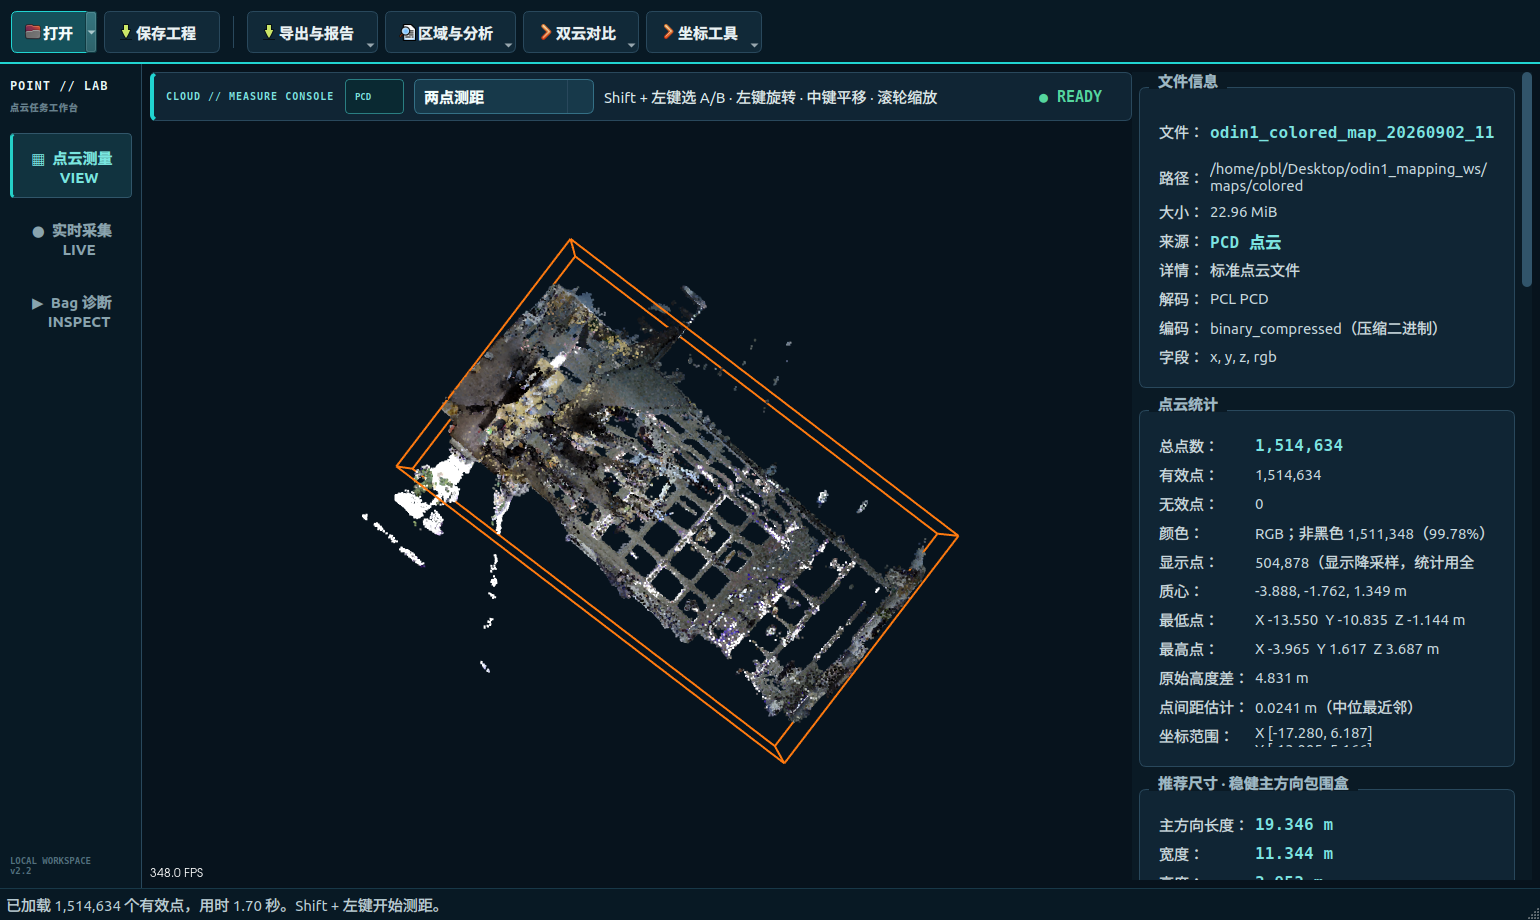
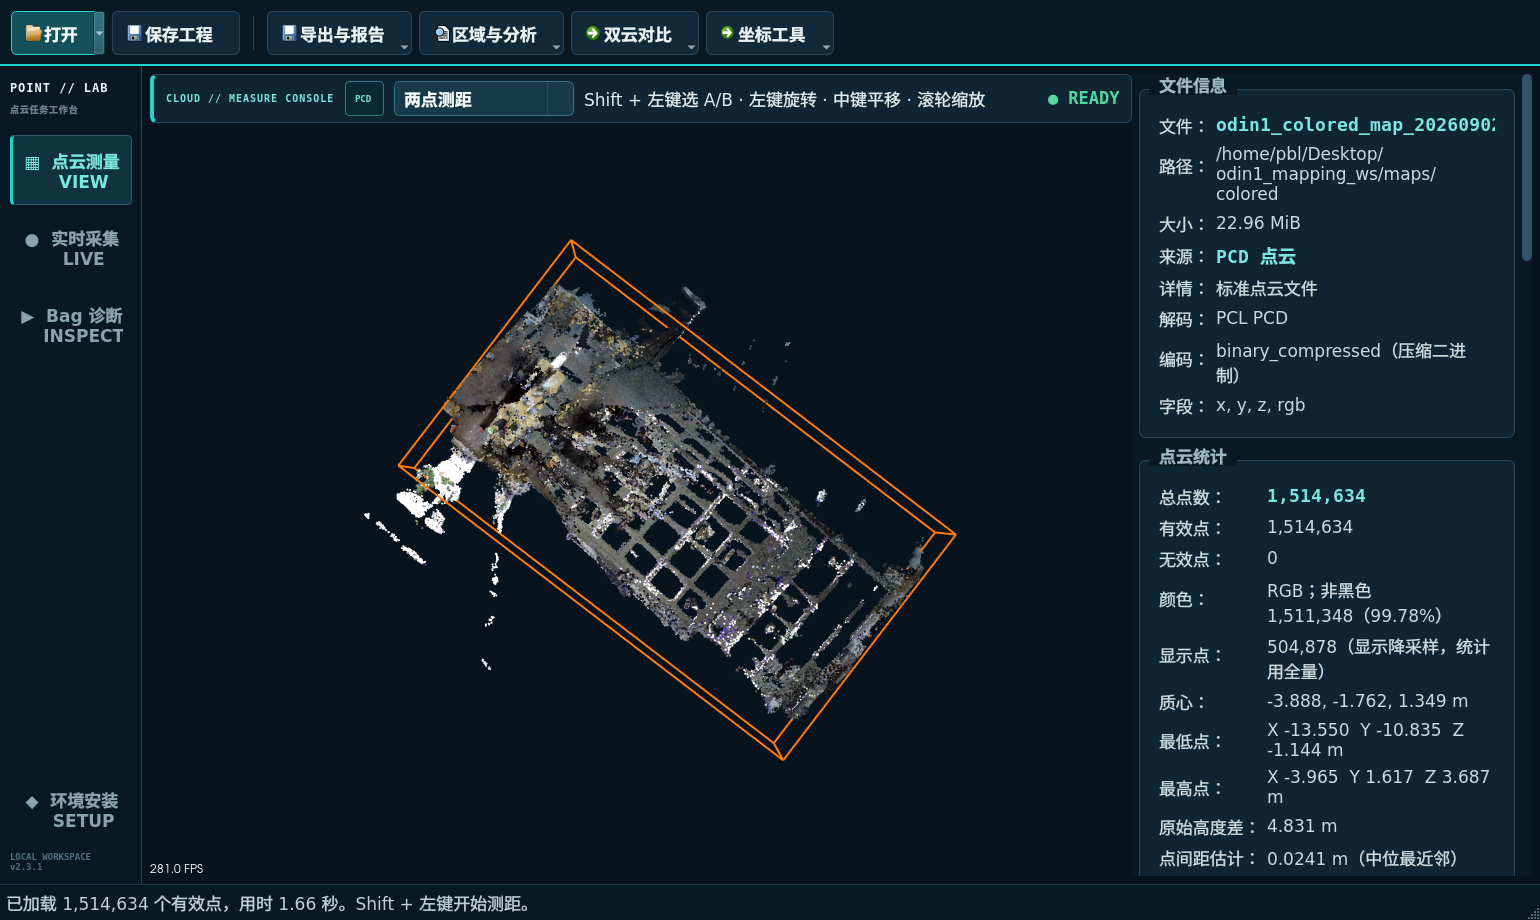
Rename product to Point Cloud Workbench

diff --git a/src/main_window.cpp b/src/main_window.cpp
@@ -311,7 +311,7 @@ MainWindow::MainWindow(QWidget * parent)
 : QMainWindow(parent)
 {
   setAcceptDrops(true);
-  setWindowTitle(QStringLiteral("点云测量工具"));
+  setWindowTitle(QStringLiteral("点云工作台"));
   setMinimumSize(1100, 700);
   resize(1540, 920);
   picking_tree_ = pcl::make_shared<pcl::KdTreeFLANN<pcl::PointXYZRGB>>();
@@ -1195,7 +1195,7 @@ void MainWindow::build_interface()
   rail_layout->addWidget(rosbag_workspace_button_);
   rail_layout->addStretch(1);
   rail_layout->addWidget(environment_workspace_button_);
-  auto * version = new QLabel(QStringLiteral("LOCAL WORKSPACE\nv2.3.0"), rail);
+  auto * version = new QLabel(QStringLiteral("LOCAL WORKSPACE\nv2.3.1"), rail);
   version->setObjectName(QStringLiteral("workspaceVersion"));
   version->setAlignment(Qt::AlignLeft | Qt::AlignBottom);
   rail_layout->addWidget(version);
@@ -1409,7 +1409,7 @@ void MainWindow::begin_load(const QString & path)
   load_timer_.restart();
   file_name_label_->setText(QStringLiteral("%1  ·  加载中").arg(info.fileName()));
   file_path_label_->setText(info.absolutePath());
-  setWindowTitle(QStringLiteral("正在加载 %1 — 点云测量工具").arg(info.fileName()));
+  setWindowTitle(QStringLiteral("正在加载 %1 — 点云工作台").arg(info.fileName()));
   source_badge_label_->setText(QStringLiteral("LOADING"));
   source_badge_label_->setStyleSheet(QStringLiteral(
     "QLabel#sourceBadge { background: #2C2415; color: #FFCA72; border: 1px solid #8A6933; "
@@ -1457,7 +1457,7 @@ void MainWindow::load_finished()
     save_project_action_->setEnabled(has_cloud);
     if (has_cloud) {
       fill_information_panel();
-      setWindowTitle(QStringLiteral("%1 — 点云测量工具")
+      setWindowTitle(QStringLiteral("%1 — 点云工作台")
         .arg(QFileInfo(current_.path).fileName()));
     }
     source_badge_label_->setText(has_cloud ? QStringLiteral("LOAD ERROR") : QStringLiteral("NO SOURCE"));
@@ -1534,7 +1534,7 @@ void MainWindow::load_finished()
   save_project_action_->setEnabled(true);
   add_recent_file(result.path);
   interaction_mode_changed(interaction_mode_combo_->currentIndex());
-  setWindowTitle(QStringLiteral("%1 — 点云测量工具").arg(QFileInfo(result.path).fileName()));
+  setWindowTitle(QStringLiteral("%1 — 点云工作台").arg(QFileInfo(result.path).fileName()));
   QString source_badge = QStringLiteral("POINT CLOUD");
   if (result.source_kind == CloudSourceKind::Pcd) source_badge = QStringLiteral("PCD");
   if (result.source_kind == CloudSourceKind::Ply) source_badge = QStringLiteral("PLY");

diff --git a/src/main.cpp b/src/main.cpp
@@ -18,8 +18,8 @@ int main(int argc, char * argv[])
 
   QApplication app(argc, argv);
   QCoreApplication::setApplicationName(QStringLiteral("PCD Measure"));
-  QApplication::setApplicationDisplayName(QStringLiteral("点云测量工具"));
-  QCoreApplication::setApplicationVersion(QStringLiteral("2.3.0"));
+  QApplication::setApplicationDisplayName(QStringLiteral("点云工作台"));
+  QCoreApplication::setApplicationVersion(QStringLiteral("2.3.1"));
   QCoreApplication::setOrganizationName(QStringLiteral("PCD Tools"));
 
   MainWindow window;

diff --git a/src/environment_setup_panel.cpp b/src/environment_setup_panel.cpp
@@ -208,7 +208,7 @@ QString EnvironmentSetupPanel::desktop_launcher_path() const
 {
   QString desktop = QStandardPaths::writableLocation(QStandardPaths::DesktopLocation);
   if (desktop.isEmpty()) desktop = QDir::home().filePath(QStringLiteral("Desktop"));
-  return QDir(desktop).filePath(QStringLiteral("点云测量工具.desktop"));
+  return QDir(desktop).filePath(QStringLiteral("点云工作台.desktop"));
 }
 
 QString EnvironmentSetupPanel::applications_launcher_path() const

diff --git a/tests/main_window_test.cpp b/tests/main_window_test.cpp
@@ -194,6 +194,7 @@ private slots:
     QVERIFY2(QFileInfo::exists(fixture_directory_ + QStringLiteral("/rgba_ascii.pcd")),
       "RGBA fixture is missing");
     window_ = std::make_unique<MainWindow>();
+    QCOMPARE(window_->windowTitle(), QStringLiteral("点云工作台"));
     window_->show();
     QTest::qWait(250);
   }

diff --git a/README.md b/README.md
@@ -1,14 +1,14 @@
-# 点云测量工具
+# 点云工作台
 
 一款面向 Ubuntu 的中文桌面点云工作台。可以直接查看、测量、裁剪和分析 PCD、PLY、Odin MAP BIN 与 OLX，也可以连接 Odin1 实时查看并录制点云，以及回放并离线诊断 ROS1、ROS2 和 MCAP bag。点云、设备采集、Bag 诊断和环境安装使用同一主窗口内的四个工作台，不再打开独立功能窗口。
 
-![点云测量工具主界面](docs/images/main-window.png)
+![点云工作台主界面](docs/images/main-window.png)
 
 > 截图由程序直接加载 1,514,634 点的彩色建筑点云生成。测试点云和用户数据不会放入仓库。
 
 | 项目 | 说明 |
 | --- | --- |
-| 当前版本 | 2.3.0 |
+| 当前版本 | 2.3.1 |
 | 已验证系统 | Ubuntu 22.04.5 LTS x86_64 |
 | 核心依赖 | Qt 5、PCL、VTK、CMake |
 | 点云输入 | PCD、PLY、MAPV0001 `.bin`、OdinViewer `.olx` |
@@ -41,7 +41,7 @@
 
 ## 关于
 
-点云测量工具把常见点云任务集中到一个中文桌面界面中：打开一份点云或 OLX 会话后，可以立即检查数据质量和场景尺寸，完成点、线、角度、面积、平面和圆的测量，再继续做局部分析、双时相对比、坐标变换、工程保存和报告输出。
+点云工作台把常见点云任务集中到一个中文桌面界面中：打开一份点云或 OLX 会话后，可以立即检查数据质量和场景尺寸，完成点、线、角度、面积、平面和圆的测量，再继续做局部分析、双时相对比、坐标变换、工程保存和报告输出。
 
 它适合以下场景：
 
@@ -120,7 +120,7 @@ chmod +x build.sh run.sh install_desktop.sh scripts/*.sh
 2. 以 Release 模式编译程序。
 3. 在项目内创建可选的 `.rosbag-venv`，安装 ROS1、压缩 bag 和 MCAP 的离线解析依赖。
 4. 按 CPU 架构下载 Manifold 官方 MAP BIN 转换器并校验固定 SHA-256；下载失败不影响其他格式。
-5. 在桌面和应用程序菜单中创建“点云测量工具”。
+5. 在桌面和应用程序菜单中创建“点云工作台”。
 
 首次从源码安装时，Qt/PCL 尚未就绪就无法先打开图形界面，因此必须在项目目录执行一次 `./install_desktop.sh`。程序能够启动以后，后续检查和修复都可以直接使用左下角“环境安装”。
 
@@ -152,7 +152,7 @@ PCD_MEASURE_SKIP_ODIN_MAP_SETUP=1 ./install_desktop.sh
 
 ### 4. 第一次双击启动
 
-安装完成后，双击桌面的“点云测量工具”。如果 Ubuntu 把图标显示为普通文本文件，请右键图标，选择“允许启动”或“信任并启动”，再双击一次。
+安装完成后，双击桌面的“点云工作台”。如果 Ubuntu 把图标显示为普通文本文件，请右键图标，选择“允许启动”或“信任并启动”，再双击一次。
 
 桌面图标引用当前项目目录，因此安装后不要删除或移动项目文件夹。若移动了目录，请在新位置重新运行：
 

diff --git a/docs/ROADMAP.md b/docs/ROADMAP.md
@@ -1,4 +1,4 @@
-# 点云测量工具 2.3 完整功能矩阵
+# 点云工作台 2.3 完整功能矩阵
 
 本文件把此前参考 CloudCompare、Potree、MeshLab、RViz 与 GIS 测量软件得到的功能建议收敛为可验收范围。目标不是复制这些软件的全部模块，而是完成“打开点云后，查看、选区、测量、分析、对比并形成可恢复工程和报告”的完整闭环。
 

diff --git a/docs/TEST_PLAN.md b/docs/TEST_PLAN.md
@@ -1,4 +1,4 @@
-# 点云测量工具 2.3 测试计划
+# 点云工作台 2.3 测试计划
 
 ## 1. 测试原则与数据集
 
